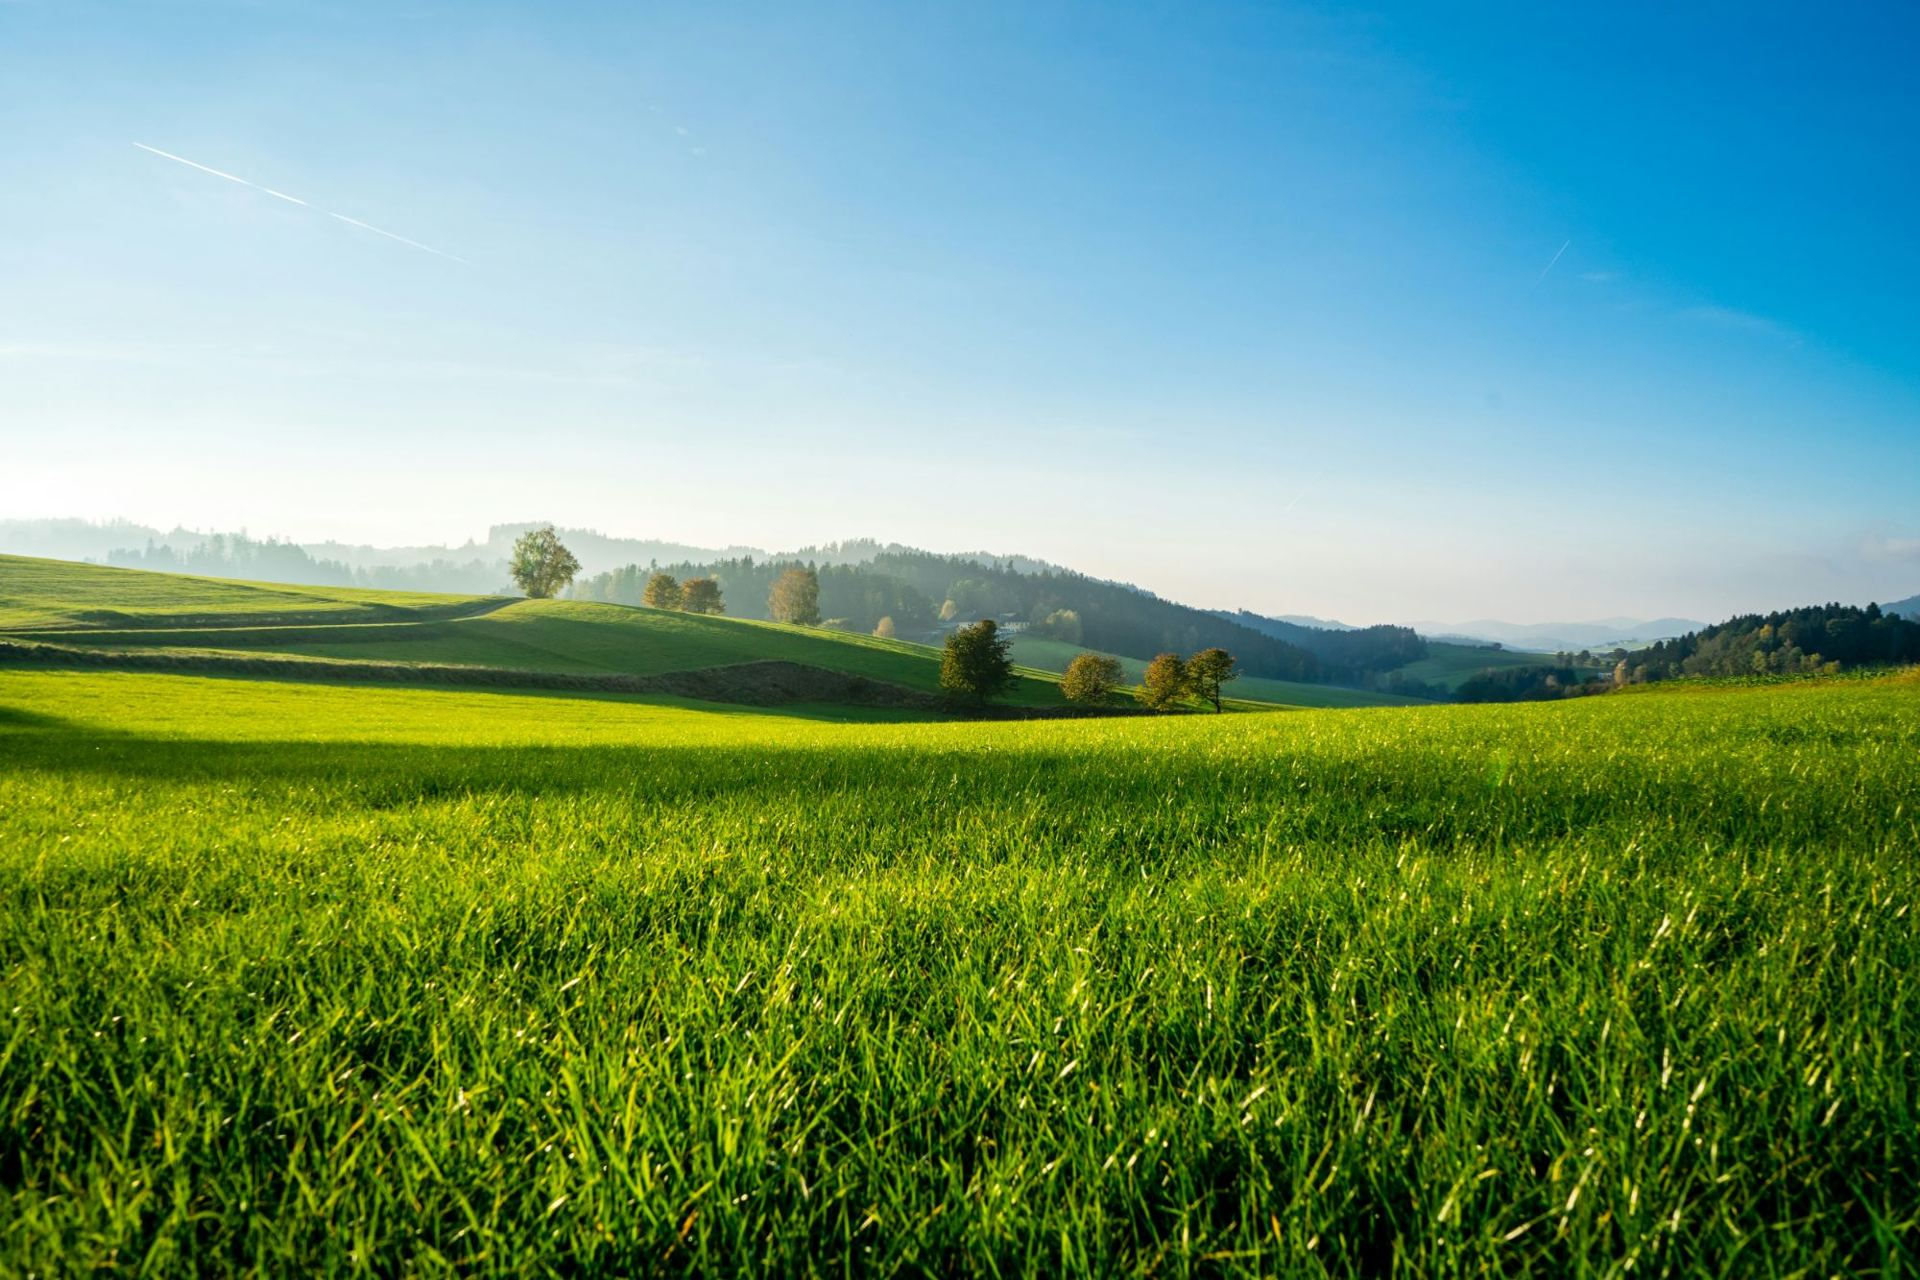
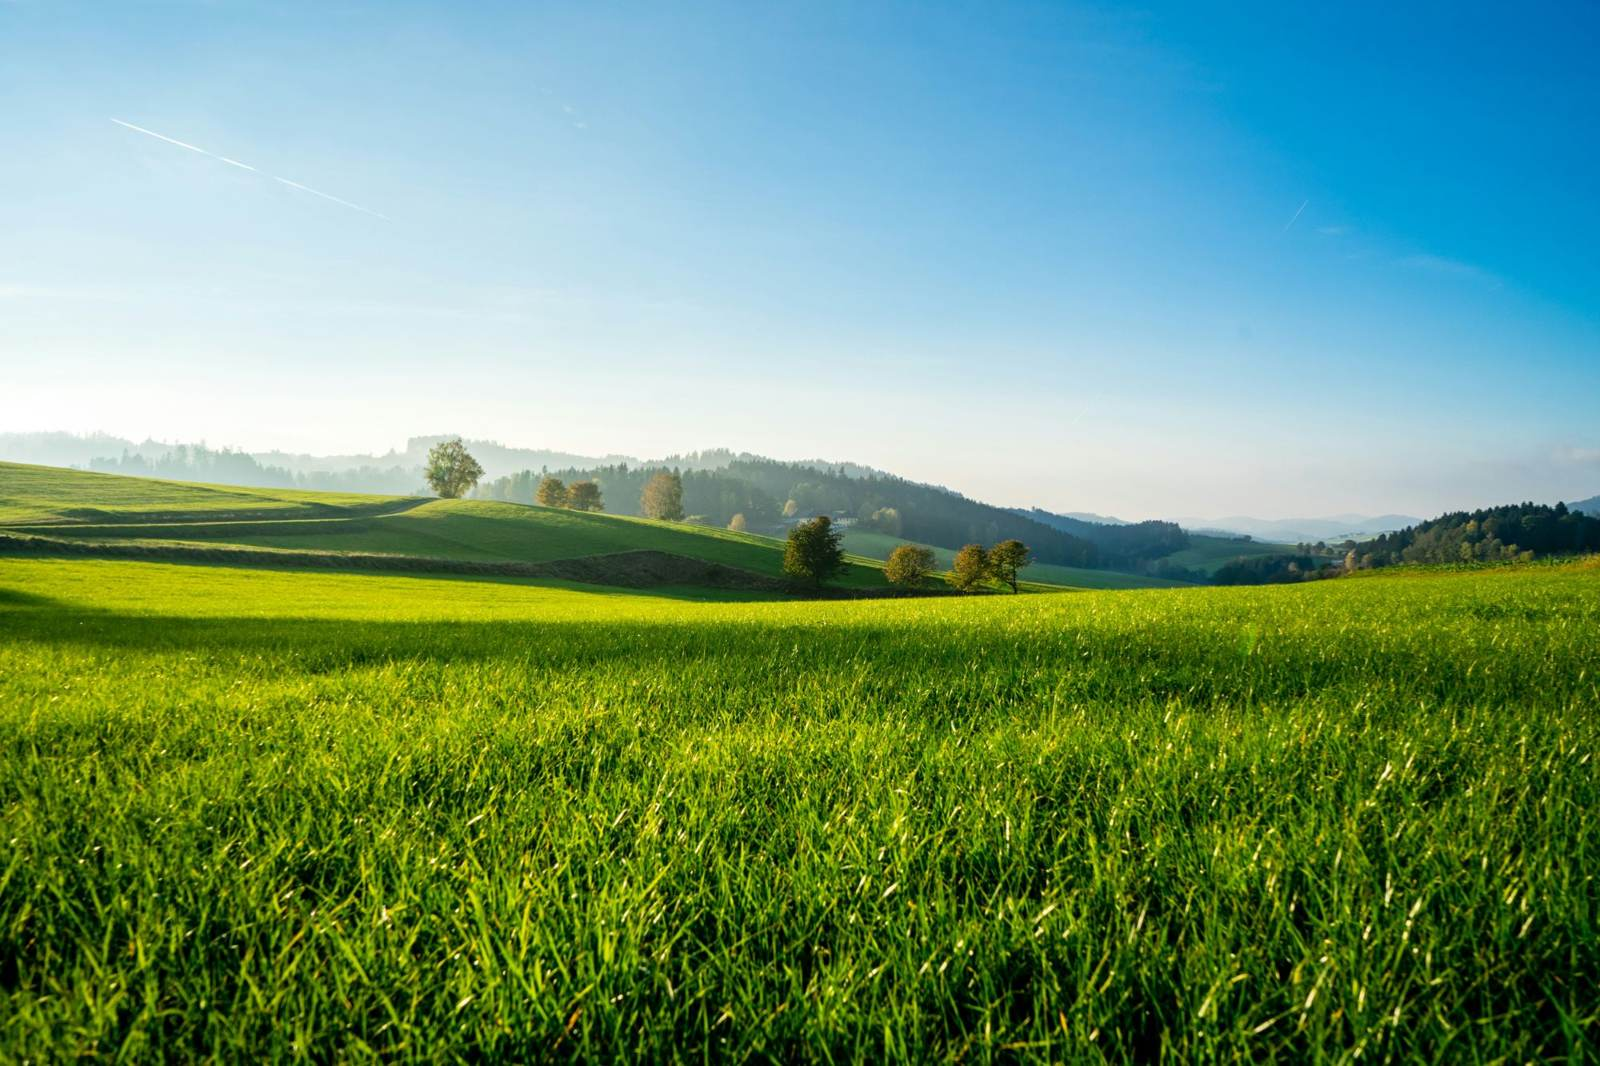
Speed up loading, tighten the particle trail, trace a K when idle
Performance:
- Lock photo as WebP (152 KB desktop, 75 KB phone; was a 345 KB JPEG)
  with JPEG fallbacks, preloaded at high priority
- Web fonts load without blocking first paint; unused weights dropped
- Particle library loads after the page is idle; preconnect to unpkg
- 4x fewer particles (256x256 desktop, 128x128 phone)
- content-visibility on below-the-fold sections; code rain created on
  first view

Particles:
- Faster fade and weaker noise for a shorter, tighter trail
- While the real pointer is off the lock screen, a virtual pointer
  traces the letter K instead of the library's figure-eight

Claude-Session: https://claude.ai/code/session_01GjxHJVQ8HiMgBhKXaGWKk2

diff --git a/script.js b/script.js
@@ -183,23 +183,35 @@ let toysModule = null;
 let particlesCanvas = null;
 let particlesLoading = false;
 
+// The particle library (~250 KB gzipped with three.js) waits until the page has
+// loaded and the browser is idle, so it never delays the first paint or the photo.
+const pageReady = new Promise((resolve) => {
+  const whenIdle = () =>
+    window.requestIdleCallback ? requestIdleCallback(resolve, { timeout: 1200 }) : setTimeout(resolve, 200);
+  if (document.readyState === "complete") whenIdle();
+  else window.addEventListener("load", whenIdle, { once: true });
+});
+
 async function startLockParticles() {
   if (reduceMotion || particlesCanvas || particlesLoading) return;
   particlesLoading = true;
   try {
+    await pageReady;
+    if (lock.dataset.state === "logged-in") return;
     toysModule = toysModule || (await import(TOYS_URL));
     if (lock.dataset.state === "logged-in") return;
     const small = window.innerWidth < 700;
     toysModule.particlesCursor({
       el: lock,
-      gpgpuSize: small ? 256 : 512,
+      // Fewer particles that fade faster: a shorter, tighter trail and a lighter GPU load
+      gpgpuSize: small ? 128 : 256,
       colors: [0x00ffff, 0x4e00c2],
       color: 0x5ddcff,
       coordScale: 0.5,
-      noiseIntensity: 0.001,
+      noiseIntensity: 0.0005,
       noiseTimeCoef: 0.0001,
-      pointSize: small ? 4 : 5,
-      pointDecay: 0.0025,
+      pointSize: small ? 3 : 4,
+      pointDecay: 0.009,
       sleepRadiusX: small ? 120 : 250,
       sleepRadiusY: small ? 120 : 250,
       sleepTimeCoefX: 0.001,
@@ -207,8 +219,9 @@ async function startLockParticles() {
     });
     particlesCanvas = lock.querySelector(":scope > canvas:last-of-type");
     particlesCanvas.classList.add("lock-particles");
+    startKPath();
   } catch (err) {
-    // No WebGL or the library couldn't load: the gradient background shows instead
+    // No WebGL or the library couldn't load: the photo background shows on its own
     console.warn("Particles cursor unavailable:", err);
   } finally {
     particlesLoading = false;
@@ -216,6 +229,7 @@ async function startLockParticles() {
 }
 
 function stopLockParticles() {
+  stopKPath();
   if (!particlesCanvas) return;
   // The library has no stop method, so release its WebGL context to stop GPU work.
   // The canvas stays in the DOM (hidden) because the library still resizes it.
@@ -224,6 +238,77 @@ function stopLockParticles() {
   particlesCanvas.hidden = true;
   particlesCanvas = null;
 }
+
+// Idle path in the shape of a K. The library's own idle motion is a fixed
+// figure-eight, so while the real pointer isn't over the lock screen we feed
+// it a virtual pointer that traces the letter instead. Points are relative to
+// the screen centre, in units of the letter's height.
+const K_POINTS = [
+  [-0.2, -0.5], // top of the stem
+  [-0.2, 0.5], // bottom of the stem
+  [-0.2, 0.05], // junction
+  [0.24, -0.5], // upper arm
+  [-0.2, 0.05], // junction
+  [0.26, 0.5], // lower arm
+  [-0.2, 0.05], // junction
+  [-0.2, -0.5], // back to the top
+];
+const K_LOOP_MS = 10000;
+const K_SEGMENTS = K_POINTS.slice(1).map((end, i) => {
+  const start = K_POINTS[i];
+  return { start, end, length: Math.hypot(end[0] - start[0], end[1] - start[1]) };
+});
+const K_LENGTH = K_SEGMENTS.reduce((sum, seg) => sum + seg.length, 0);
+let kFrame = 0;
+let kStartTime = 0;
+let realPointerOnLock = false;
+
+function kPointAt(progress) {
+  let distance = progress * K_LENGTH;
+  for (const seg of K_SEGMENTS) {
+    if (distance <= seg.length) {
+      const t = distance / seg.length;
+      return [seg.start[0] + (seg.end[0] - seg.start[0]) * t, seg.start[1] + (seg.end[1] - seg.start[1]) * t];
+    }
+    distance -= seg.length;
+  }
+  return K_POINTS[K_POINTS.length - 1];
+}
+
+function driveKPath(time) {
+  if (!realPointerOnLock) {
+    const rect = lock.getBoundingClientRect();
+    const size = Math.min(rect.width, rect.height) * 0.7;
+    const [x, y] = kPointAt(((time - kStartTime) % K_LOOP_MS) / K_LOOP_MS);
+    lock.dispatchEvent(
+      new PointerEvent("pointermove", {
+        clientX: rect.left + rect.width / 2 + x * size,
+        clientY: rect.top + rect.height / 2 + y * size,
+        bubbles: true,
+      })
+    );
+  }
+  kFrame = requestAnimationFrame(driveKPath);
+}
+
+function startKPath() {
+  if (kFrame) return;
+  kStartTime = performance.now();
+  kFrame = requestAnimationFrame(driveKPath);
+}
+
+function stopKPath() {
+  cancelAnimationFrame(kFrame);
+  kFrame = 0;
+}
+
+// Real mouse or finger on the lock screen takes over; the K resumes when it leaves
+lock.addEventListener("pointermove", (e) => {
+  if (e.isTrusted) realPointerOnLock = true;
+});
+lock.addEventListener("pointerleave", (e) => {
+  if (e.isTrusted) realPointerOnLock = false;
+});
 
 function renderPin() {
   const value = pinInput.value;
@@ -595,10 +680,16 @@ $(".magic-cards").innerHTML = PROJECTS.filter((p) => p.featured)
 // Code section: matrix rain + typing terminal
 // ============================================================
 const codeSection = $("#code");
-const codeRain = createRain($(".matrix-rain"), { fontSize: 16, fade: 0.06 });
+// Created on first view so it costs nothing at page load
+let codeRain = null;
 
 new IntersectionObserver((entries) => {
-  entries[0].isIntersecting ? codeRain.start() : codeRain.stop();
+  if (entries[0].isIntersecting) {
+    codeRain = codeRain || createRain($(".matrix-rain"), { fontSize: 16, fade: 0.06 });
+    codeRain.start();
+  } else {
+    codeRain?.stop();
+  }
 }).observe(codeSection);
 
 const TERMINAL_TEXT = [

diff --git a/index.html b/index.html
@@ -7,8 +7,21 @@
   <meta name="description" content="Portfolio of Kalande Kapaya, full-stack software engineer and product specialist in Lusaka, Zambia.">
   <link rel="preconnect" href="https://fonts.googleapis.com">
   <link rel="preconnect" href="https://fonts.gstatic.com" crossorigin>
-  <link href="https://fonts.googleapis.com/css2?family=Poppins:wght@300;400;500;600;700&family=Montserrat:wght@500;700&family=JetBrains+Mono:wght@400;700&display=swap" rel="stylesheet">
+  <link rel="preconnect" href="https://unpkg.com" crossorigin>
+  <!-- Lock screen photo is the first thing on screen: fetch it straight away -->
+  <link rel="preload" as="image" href="images/lock-bg.webp" type="image/webp" media="(min-width: 761px)" fetchpriority="high">
+  <link rel="preload" as="image" href="images/lock-bg-small.webp" type="image/webp" media="(max-width: 760px)" fetchpriority="high">
   <link rel="stylesheet" href="styles.css">
+  <!-- Load web fonts without blocking the first paint (text shows in a system font until they arrive) -->
+  <script>
+    (function () {
+      var link = document.createElement("link");
+      link.rel = "stylesheet";
+      link.href = "https://fonts.googleapis.com/css2?family=Poppins:wght@400;500;600&family=Montserrat:wght@700&family=JetBrains+Mono:wght@400;700&display=swap";
+      document.head.appendChild(link);
+    })();
+  </script>
+  <noscript><link rel="stylesheet" href="https://fonts.googleapis.com/css2?family=Poppins:wght@400;500;600&family=Montserrat:wght@700&family=JetBrains+Mono:wght@400;700&display=swap"></noscript>
 </head>
 <body class="is-locked">
   <!-- Icon sprite (Feather icons, MIT) -->

diff --git a/styles.css b/styles.css
@@ -258,7 +258,15 @@ button {
   position: absolute;
   inset: 0;
   background: url("images/lock-bg.jpg") center / cover no-repeat;
+  background-image: image-set(url("images/lock-bg.webp") type("image/webp"), url("images/lock-bg.jpg") type("image/jpeg"));
   transition: filter 0.5s, transform 0.5s;
+}
+
+@media (max-width: 760px) {
+  .lock-photo {
+    background-image: url("images/lock-bg-small.jpg");
+    background-image: image-set(url("images/lock-bg-small.webp") type("image/webp"), url("images/lock-bg-small.jpg") type("image/jpeg"));
+  }
 }
 
 /* Darken the top-left (clock) and bottom (unlock button) so white text stays readable */
@@ -1434,6 +1442,12 @@ button {
 /* =========================================================
    FEATURED (magic cards)
    ========================================================= */
+.featured,
+.contact {
+  content-visibility: auto;
+  contain-intrinsic-size: auto 900px;
+}
+
 .featured {
   padding: 6rem 1.5rem;
   background: #212534;
